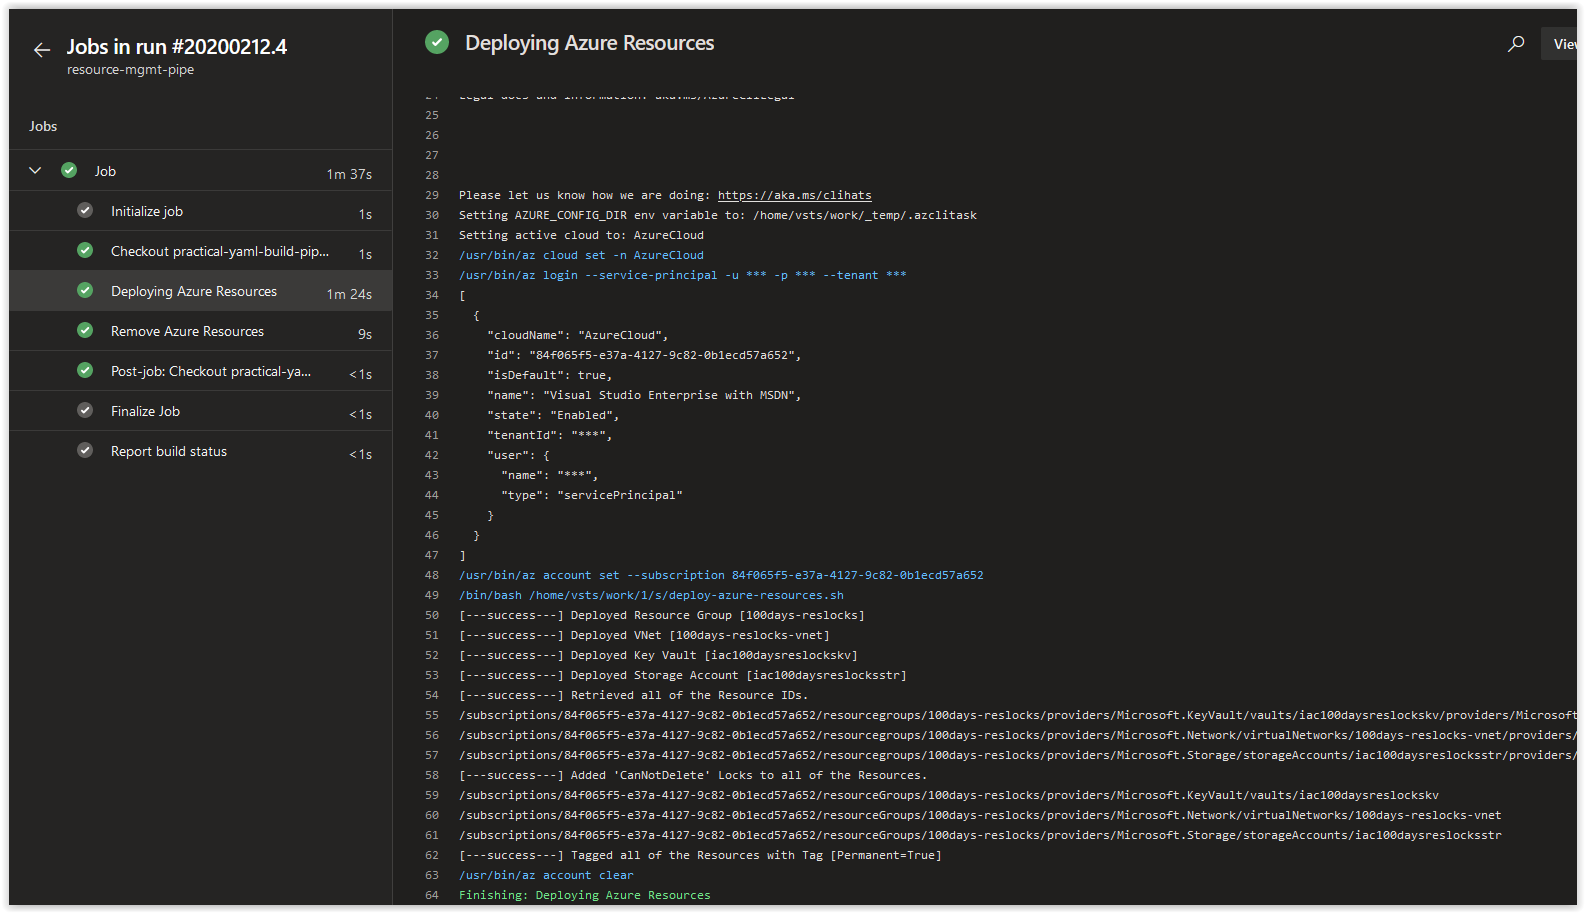
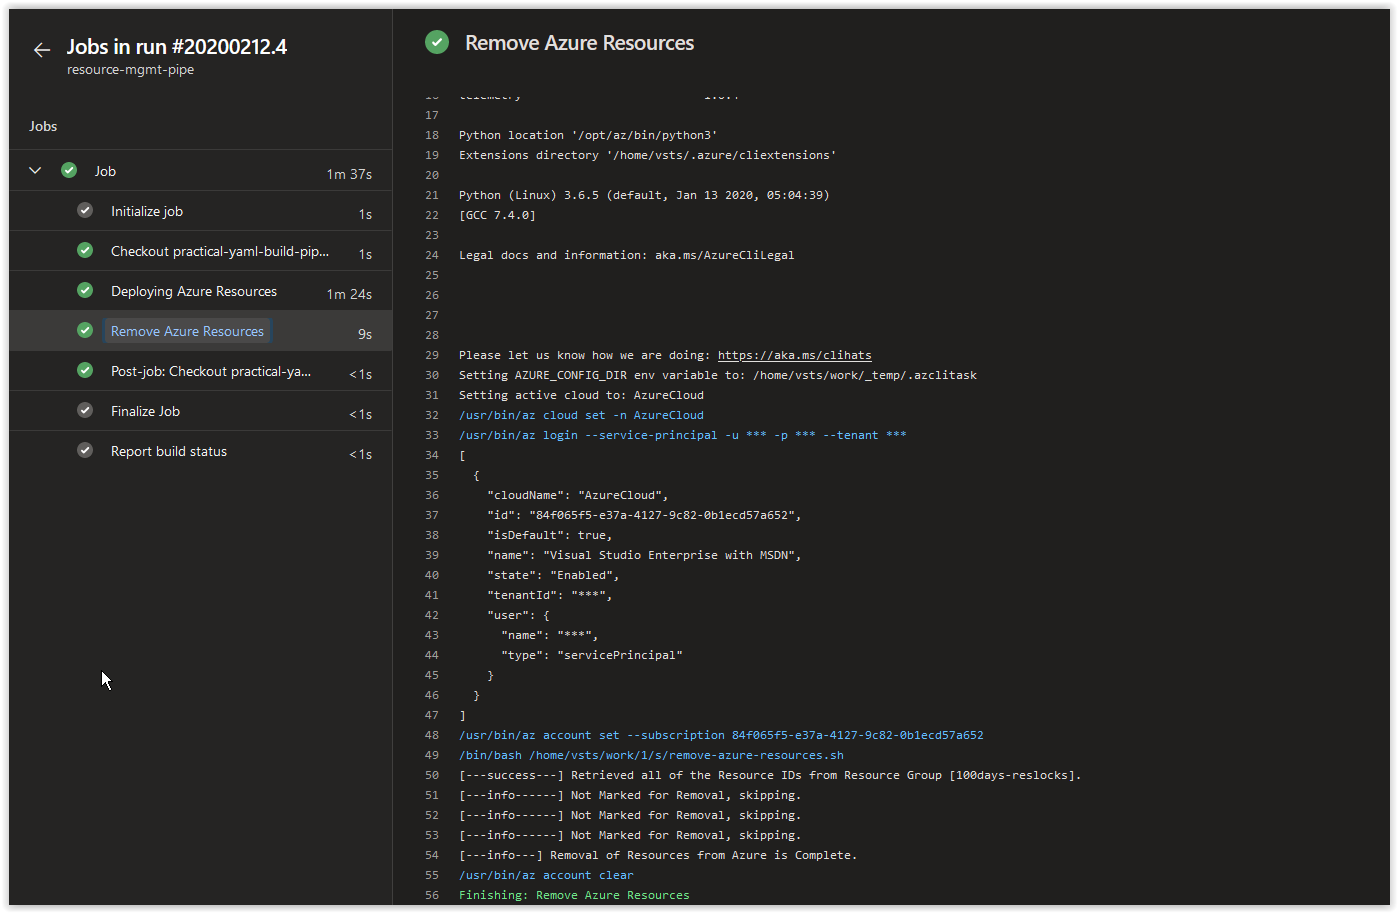
updated

diff --git a/articles/day.98.using.resource.locks.in.a.yaml.pipeline.md b/articles/day.98.using.resource.locks.in.a.yaml.pipeline.md
@@ -4,6 +4,10 @@ Today we are going to show you how you can integrate Resource Locks into a YAML 
 
 </br>
 
+> **NOTE:** This article was tested and written for a Linux Host running Ubuntu 18.04 with Azure CLI installed.
+
+</br>
+
 In this article:
 
 [Deploy Resources into Azure](#deploy-resources-into-azure)</br>
@@ -14,9 +18,9 @@ In this article:
 [Things to Consider](#things-to-consider)</br>
 [Conclusion](#conclusion) </br>
 
-## Create a Script for Deploying your Resources in Azure
+## Deploy your Resources to Azure
 
-In VS Code, create a new file called the **deploy-azure-resources.sh**. Copy and paste the contents below into it and save and commit it to your Azure DevOps repository.
+In VS Code or your editor of choice, create a new file called the **deploy-azure-resources.sh**. Copy and paste the contents below into it and save it.
 
 ```bash
 #!/bin/bash
@@ -132,6 +136,27 @@ else
 fi
 ```
 
+</br>
+
+Make the **deploy-azure-resources.sh** executable and then run it. You should get back the following results.
+
+```console
+[---success---] Deployed Resource Group [100days-reslocks]
+[---success---] Deployed VNet [100days-reslocks-vnet]
+[---success---] Deployed Key Vault [iac100daysreslockskv]
+The default kind for created storage account will change to 'StorageV2' from 'Storage' in the future
+[---success---] Deployed Storage Account [iac100daysreslocksstr]
+[---success---] Retrieved all of the Resource IDs.
+/subscriptions/84f065f5-e37a-4127-9c82-0b1ecd57a652/resourcegroups/100days-reslocks/providers/Microsoft.KeyVault/vaults/iac100daysreslockskv/providers/Microsoft.Authorization/locks/LockedResources
+/subscriptions/84f065f5-e37a-4127-9c82-0b1ecd57a652/resourcegroups/100days-reslocks/providers/Microsoft.Network/virtualNetworks/100days-reslocks-vnet/providers/Microsoft.Authorization/locks/LockedResources
+[---success---] Added 'CanNotDelete' Locks to all of the Resources.
+/subscriptions/84f065f5-e37a-4127-9c82-0b1ecd57a652/resourceGroups/100days-reslocks/providers/Microsoft.KeyVault/vaults/iac100daysreslockskv
+/subscriptions/84f065f5-e37a-4127-9c82-0b1ecd57a652/resourceGroups/100days-reslocks/providers/Microsoft.Network/virtualNetworks/100days-reslocks-vnet
+[---success---] Tagged all of the Resources with Tag [Permanent=True]
+```
+
+</br>
+
 ## Create a Script for Deleting Resources based on a Tag Value
 
 In VS Code, create a new file called the **remove-azure-resources.sh**. Copy and paste the contents below into it and save and commit it to your Azure DevOps repository.
@@ -196,6 +221,8 @@ done
 echo "[---info---] Removal of Resources from Azure is Complete."
 ```
 
+</br>
+
 ## Create the YAML File for the Build Pipeline
 
 Next, in VS Code, create a file called **resource-mgmt-pipe.yaml** file. Copy and paste the contents below into the file and then save and commit your changes to the repository.
@@ -210,16 +237,6 @@ pool:
   vmImage: ubuntu-18.04
 
 steps:
-
-# Azure CLI Task - Deploying Azure Resources.
-- task: AzureCLI@2
-  displayName: 'Deploying Azure Resources'
-  inputs:
-    # Using Service Principal, 'sp-az-build-pipeline', to authenticate to the Azure Subscription.
-    azureSubscription: 'sp-az-build-pipeline'
-    scriptType: 'bash'
-    scriptLocation: 'scriptPath'
-    scriptPath: './deploy-azure-resources.sh'
 
 # Azure CLI Task - Remove Azure Resources.
 - task: AzureCLI@2
@@ -242,13 +259,9 @@ If you need additional information on how to create a new Build Pipeline, please
 
 Create a new Build Pipeline called **resource-mgmt-pipe**. At the end of the creation process, make sure you using the **resource-mgmt-pipe.yaml** file. Run the Build Pipeline once you are done configuring it.
 
-The **Deploy Azure Resources** Job should return the following results.
-
-![001](../images/day98/day.98.using.resource.locks.in.a.yaml.pipeline.001.png)
-
 The **Remove Azure Resources** Job should return the following results.
 
-![002](../images/day98/day.98.using.resource.locks.in.a.yaml.pipeline.002.png)
+![001](../images/day98/day.98.using.resource.locks.in.a.yaml.pipeline.001.png)
 
 </br>
 
@@ -290,7 +303,7 @@ Next, rerun the **resource-mgmt-pipe** Build Pipeline.
 
 The **Deploy Azure Resources** Job should return the exact same results after the original run. However, the results from the **Remove Azure Resources** Job should return the following results.
 
-![003](../images/day98/day.98.using.resource.locks.in.a.yaml.pipeline.003.png)
+![002](../images/day98/day.98.using.resource.locks.in.a.yaml.pipeline.002.png)
 
 </br>
 
@@ -300,9 +313,7 @@ You can check the [Azure Portal](https://portal.azure.com) to verify that the St
 
 ## Things to Consider
 
-The methodology shown above should work for just about all Resources in Azure that are taggable. If you plan on implementing this type of solution, we recommend that you test this against your Azure Resources thoroughly before doing so.
-
-You'll notice that we didn't include the **id** of the Resource if it was being skipped for deletion. Depending on the type of logging in your environment, such as in Production, you'll probably want to include as much information as possible for tracking and troubleshooting purposes.
+Make sure to have your Resource Removal Jobs in a separate Build Pipeline from your Deployment Pipelines unless you want the resources to constantly be recreated.
 
 </br>
 
